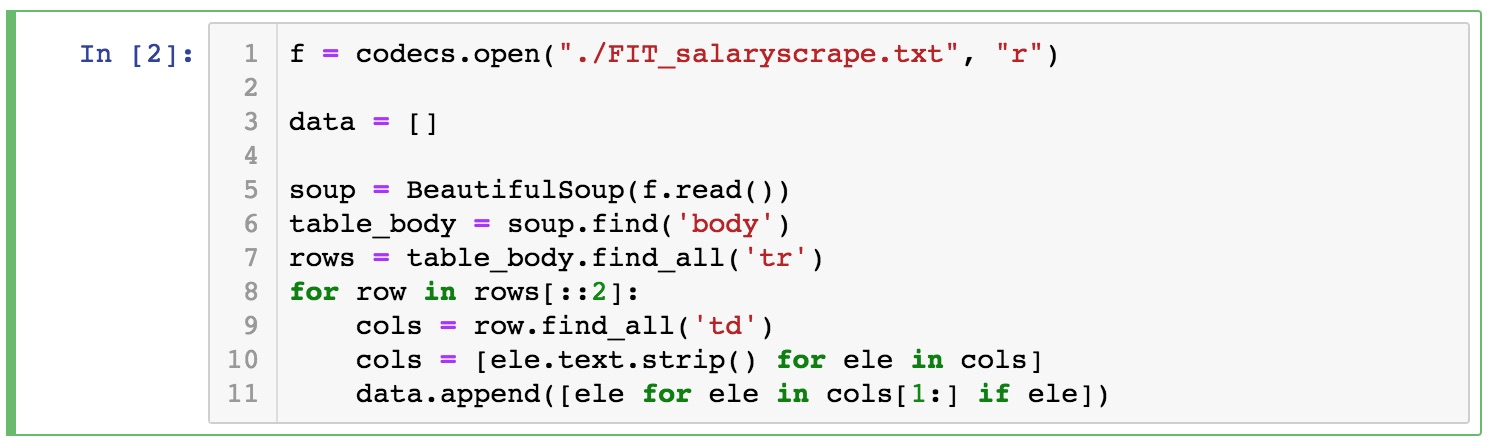
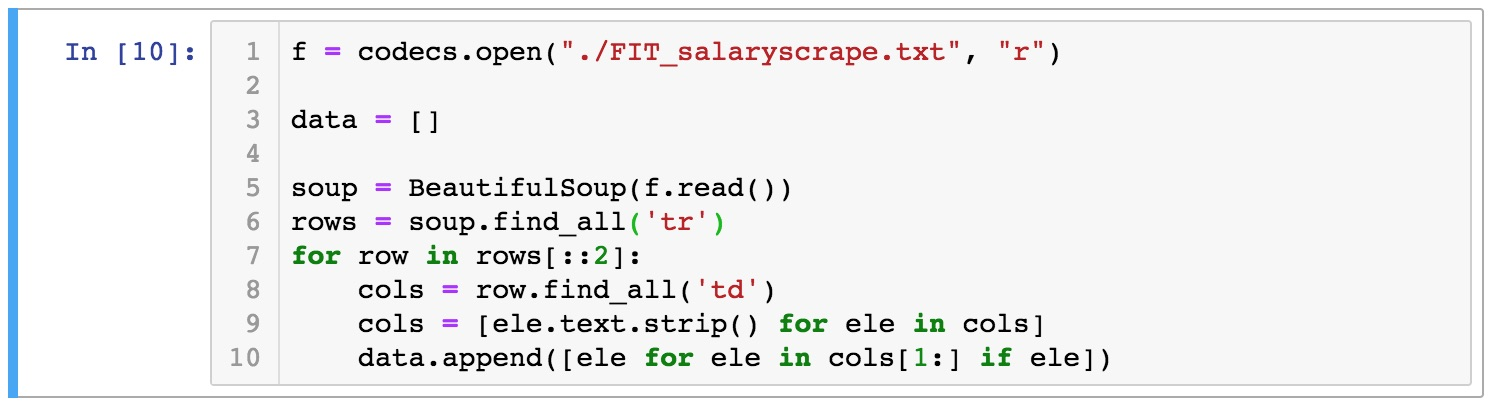
o again

diff --git a/_posts/2019-2-18-DataViz01.md b/_posts/2019-2-18-DataViz01.md
@@ -117,8 +117,7 @@ import codecs</code></pre>
 data = []
 
 soup = BeautifulSoup(f.read())
-table_body = soup.find('body')
-rows = table_body.find_all('tr')
+rows = soup.find_all('tr')
 for row in rows[::2]:
     cols = row.find_all('td')
     cols = [ele.text.strip() for ele in cols]
@@ -126,4 +125,8 @@ for row in rows[::2]:
 
 ![test image size](../../../assets/images/pic_jupyter_load_data.jpg){:height="50%" width="50%"}
 
-<p>There're many libraries and packages out there that will handle different types of programming issues. For us, the first step is to install the packages as we did earlier using pip install. And these few lines of code is to tell python that these packages are already installed and we need to deploy them into the current system.</p>
+<p>The first line of code here is to read the text file into the variable <b>f</b>. The second line is to create an <b>Empty Array</b> named data. Think of it as a bucket that will hold the data that will come in, and this is just to prepare for it. Third line is to call on BeautifulSoup to read the text file. BeautifulSoup is made to parse html files, and the text file we just loaded is really just html that has been copied and pasted to contain only the data portion. By using BeautifulSoup we can process the data much quicker without having to write low level code ourselves. At this point, the variable <b>soup</b> should contain the whole text files. Try typing in <b>soup</b> in the next time and execute it, you should see the HTML content.</p>
+
+![test image size](../../../assets/images/pic_jupyter_soup.jpg){:height="50%" width="50%"}
+
+<p>If you're not familiar with HTML, it's basically a big mix of human readable language mixed with machine language, and most of the machine language is contained within this <> bracket call <b>Tags</b>. There're lots of common tags, and the one that we see here is <b><tr></b> and <b><td></b>. <b>TR</b> represents <b>Table / Row</b>, and <b>TD</b> represents <b>Table / Data cell</b>. Each row of data begins with the tag <b><tr></b> and end with this tag <b></tr></b>. And as we can see here, </p>
